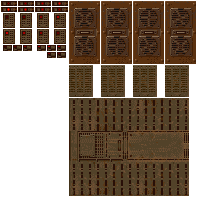
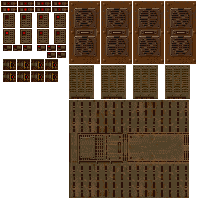
Fixed blow2 and added LED 4

diff --git a/GunBird - CodedDreams/ModuleSceneMine.cpp b/GunBird - CodedDreams/ModuleSceneMine.cpp
@@ -160,6 +160,18 @@ bool ModuleSceneMine::Start()
 	upper_led3.speed = 0.1f;
 	upper_led3.loop = true;
 
+	//LED 4
+	upper_led4.PushBack({ 3, 59, 13, 11 });
+	upper_led4.PushBack({ 17, 59, 13, 11 });
+	upper_led4.PushBack({ 31, 59, 13, 11 });
+	upper_led4.PushBack({ 45, 59, 13, 11 });
+	upper_led4.PushBack({ 3, 71, 13, 11 });
+	upper_led4.PushBack({ 17, 71, 13, 11 });
+	upper_led4.PushBack({ 31, 71, 13, 11 });
+	upper_led4.PushBack({ 45, 71, 13, 11 });
+	upper_led4.speed = 0.1f;
+	upper_led4.loop = true;
+
 	//BLOW1
 	upper_blow1.PushBack({ 69, 1, 31, 63 });
 	upper_blow1.PushBack({ 101, 1, 31, 63 });
@@ -169,10 +181,10 @@ bool ModuleSceneMine::Start()
 	upper_blow1.loop = true;
 
 	//BLOW 2
-	upper_blow2.PushBack({ 69, 65, 24, 32 });
-	upper_blow2.PushBack({ 101, 65, 24, 32 });
-	upper_blow2.PushBack({ 133, 65, 24, 32 });
-	upper_blow2.PushBack({ 165, 65, 24, 32 });
+	upper_blow2.PushBack({ 69, 65, 25, 34 });
+	upper_blow2.PushBack({ 101, 65, 25, 34 });
+	upper_blow2.PushBack({ 133, 65, 25, 34 });
+	upper_blow2.PushBack({ 165, 65, 25, 34 });
 	upper_blow2.speed = 0.2f;
 	upper_blow2.loop = true;
 
@@ -255,10 +267,12 @@ update_status ModuleSceneMine::Update()
 	App->render->Blit(graphics_above_background_anims_text, App->render->camera.x + 90, App->render->camera.y + 2168 + overlay_position, &upper_led2.GetCurrentFrame(), 0.75f);
 	//LED 3
 	App->render->Blit(graphics_above_background_anims_text, App->render->camera.x + 64, App->render->camera.y + 2077 + overlay_position, &upper_led3.GetCurrentFrame(), 0.75f);
+	//LED 4
+	App->render->Blit(graphics_above_background_anims_text, App->render->camera.x + 172, App->render->camera.y + 2805 + overlay_position, &upper_led4.GetCurrentFrame(), 0.75f);
 	//BLOW 1
 	App->render->Blit(graphics_above_background_anims_text, App->render->camera.x, App->render->camera.y + 3339 + overlay_position, &upper_blow1.GetCurrentFrame(), 0.75f);
 	//BLOW 2
-	App->render->Blit(graphics_above_background_anims_text, App->render->camera.x + 1, App->render->camera.y + 2167 + overlay_position, &upper_blow2.GetCurrentFrame(), 0.75f);
+	App->render->Blit(graphics_above_background_anims_text, App->render->camera.x, App->render->camera.y + 2165 + overlay_position, &upper_blow2.GetCurrentFrame(), 0.75f);
 
 	//Fade to black
 	if (App->player1->IsEnabled() == false && App->player2->IsEnabled() == false)

diff --git a/GunBird - CodedDreams/ModuleSceneMine.h b/GunBird - CodedDreams/ModuleSceneMine.h
@@ -29,6 +29,7 @@ public:
 	Animation upper_led1;
 	Animation upper_led2;
 	Animation upper_led3;
+	Animation upper_led4;
 	Animation upper_blow2;
 	Animation upper_blow1;
 
